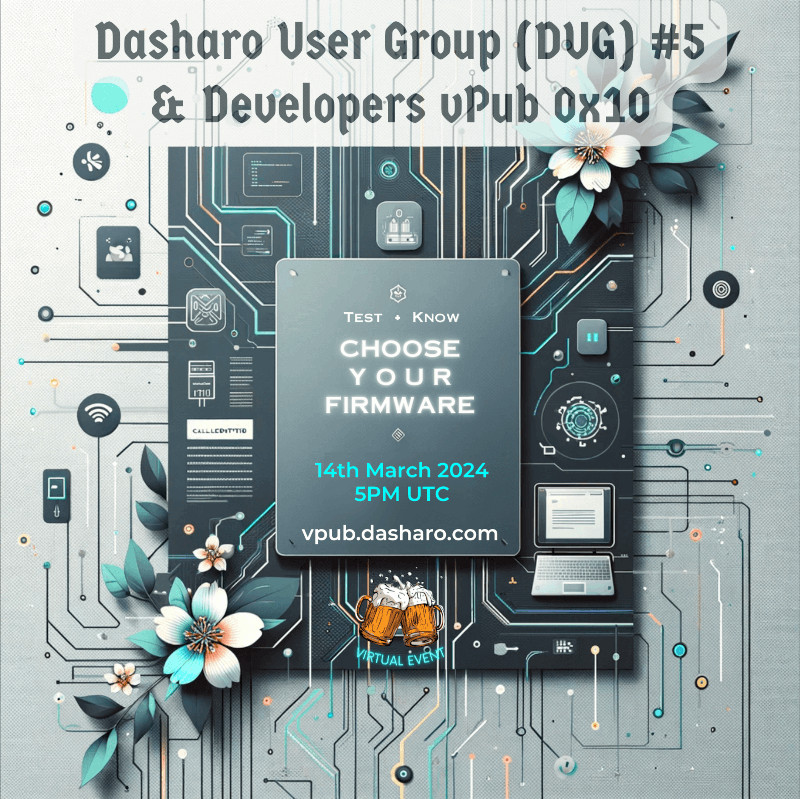
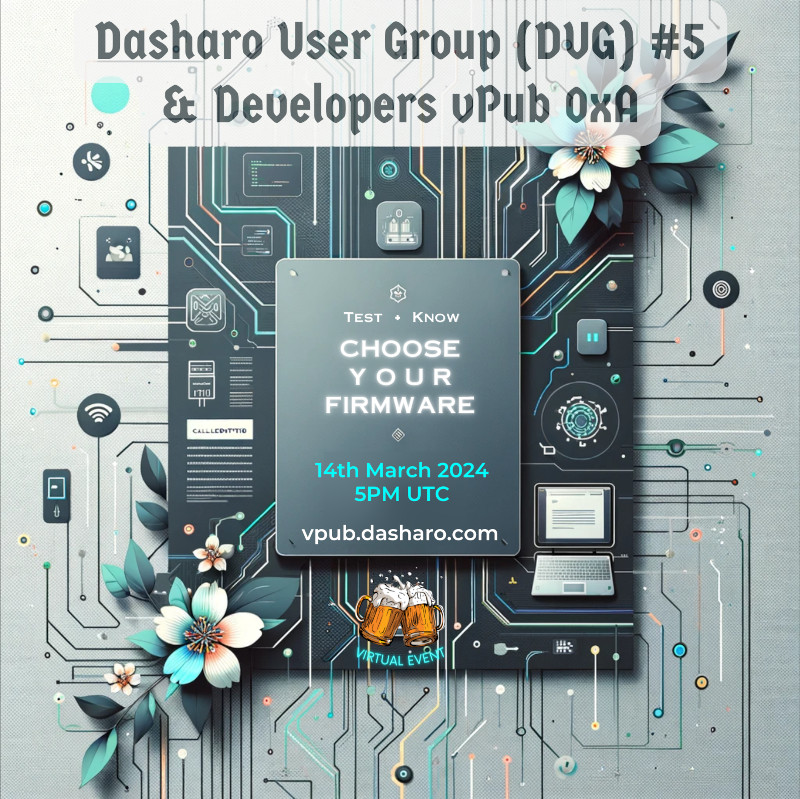
events: vpub-version-update

Changed region(s): [[0.1875, 0.0901, 0.8438, 0.1802]]

diff --git a/content/events.md b/content/events.md
@@ -22,14 +22,14 @@ all_events:
       additional_info: |
         ### FOSDEM 2024 **[Official Page](https://fosdem.org/2024/)**
 
-    - title: "Dasharo User Group 0x5 **& Developers vPub 0x10**"
+    - title: "Dasharo User Group 0x5 **& Developers vPub 0xA**"
       status: "upcoming"
       date: "14.03.2024"
       event_poster: "images/events/2024/dug_5.jpg"
       additional_info: |
         ### Dasharo User Group #5 **[Official Page](https://vpub.dasharo.com/e/12/dasharo-user-group-5)**<br><br>
 
-    - title: "Dasharo User Group 0x6 **& Developers vPub 0x11**"
+    - title: "Dasharo User Group 0x6 **& Developers vPub 0xB**"
       status: "upcoming"
       date: "06.06.2024"
       event_poster: ""
@@ -43,14 +43,14 @@ all_events:
       additional_info: |
         ### Qubes OS Summit 2024 Official Page Coming Soon
 
-    - title: "Dasharo User Group 0x7 **& Developers vPub 0x12**"
+    - title: "Dasharo User Group 0x7 **& Developers vPub 0xC**"
       status: "upcoming"
       date: "12.09.2024"
       event_poster: ""
       additional_info: |
         ### Dasharo User Group #7 **[Official Page](https://vpub.dasharo.com/e/14/dasharo-user-group-7)**<br><br>
 
-    - title: "Dasharo User Group 0x8 **& Developers vPub 0x13**"
+    - title: "Dasharo User Group 0x8 **& Developers vPub 0xD**"
       status: "upcoming"
       date: "12.12.2024"
       event_poster: ""
